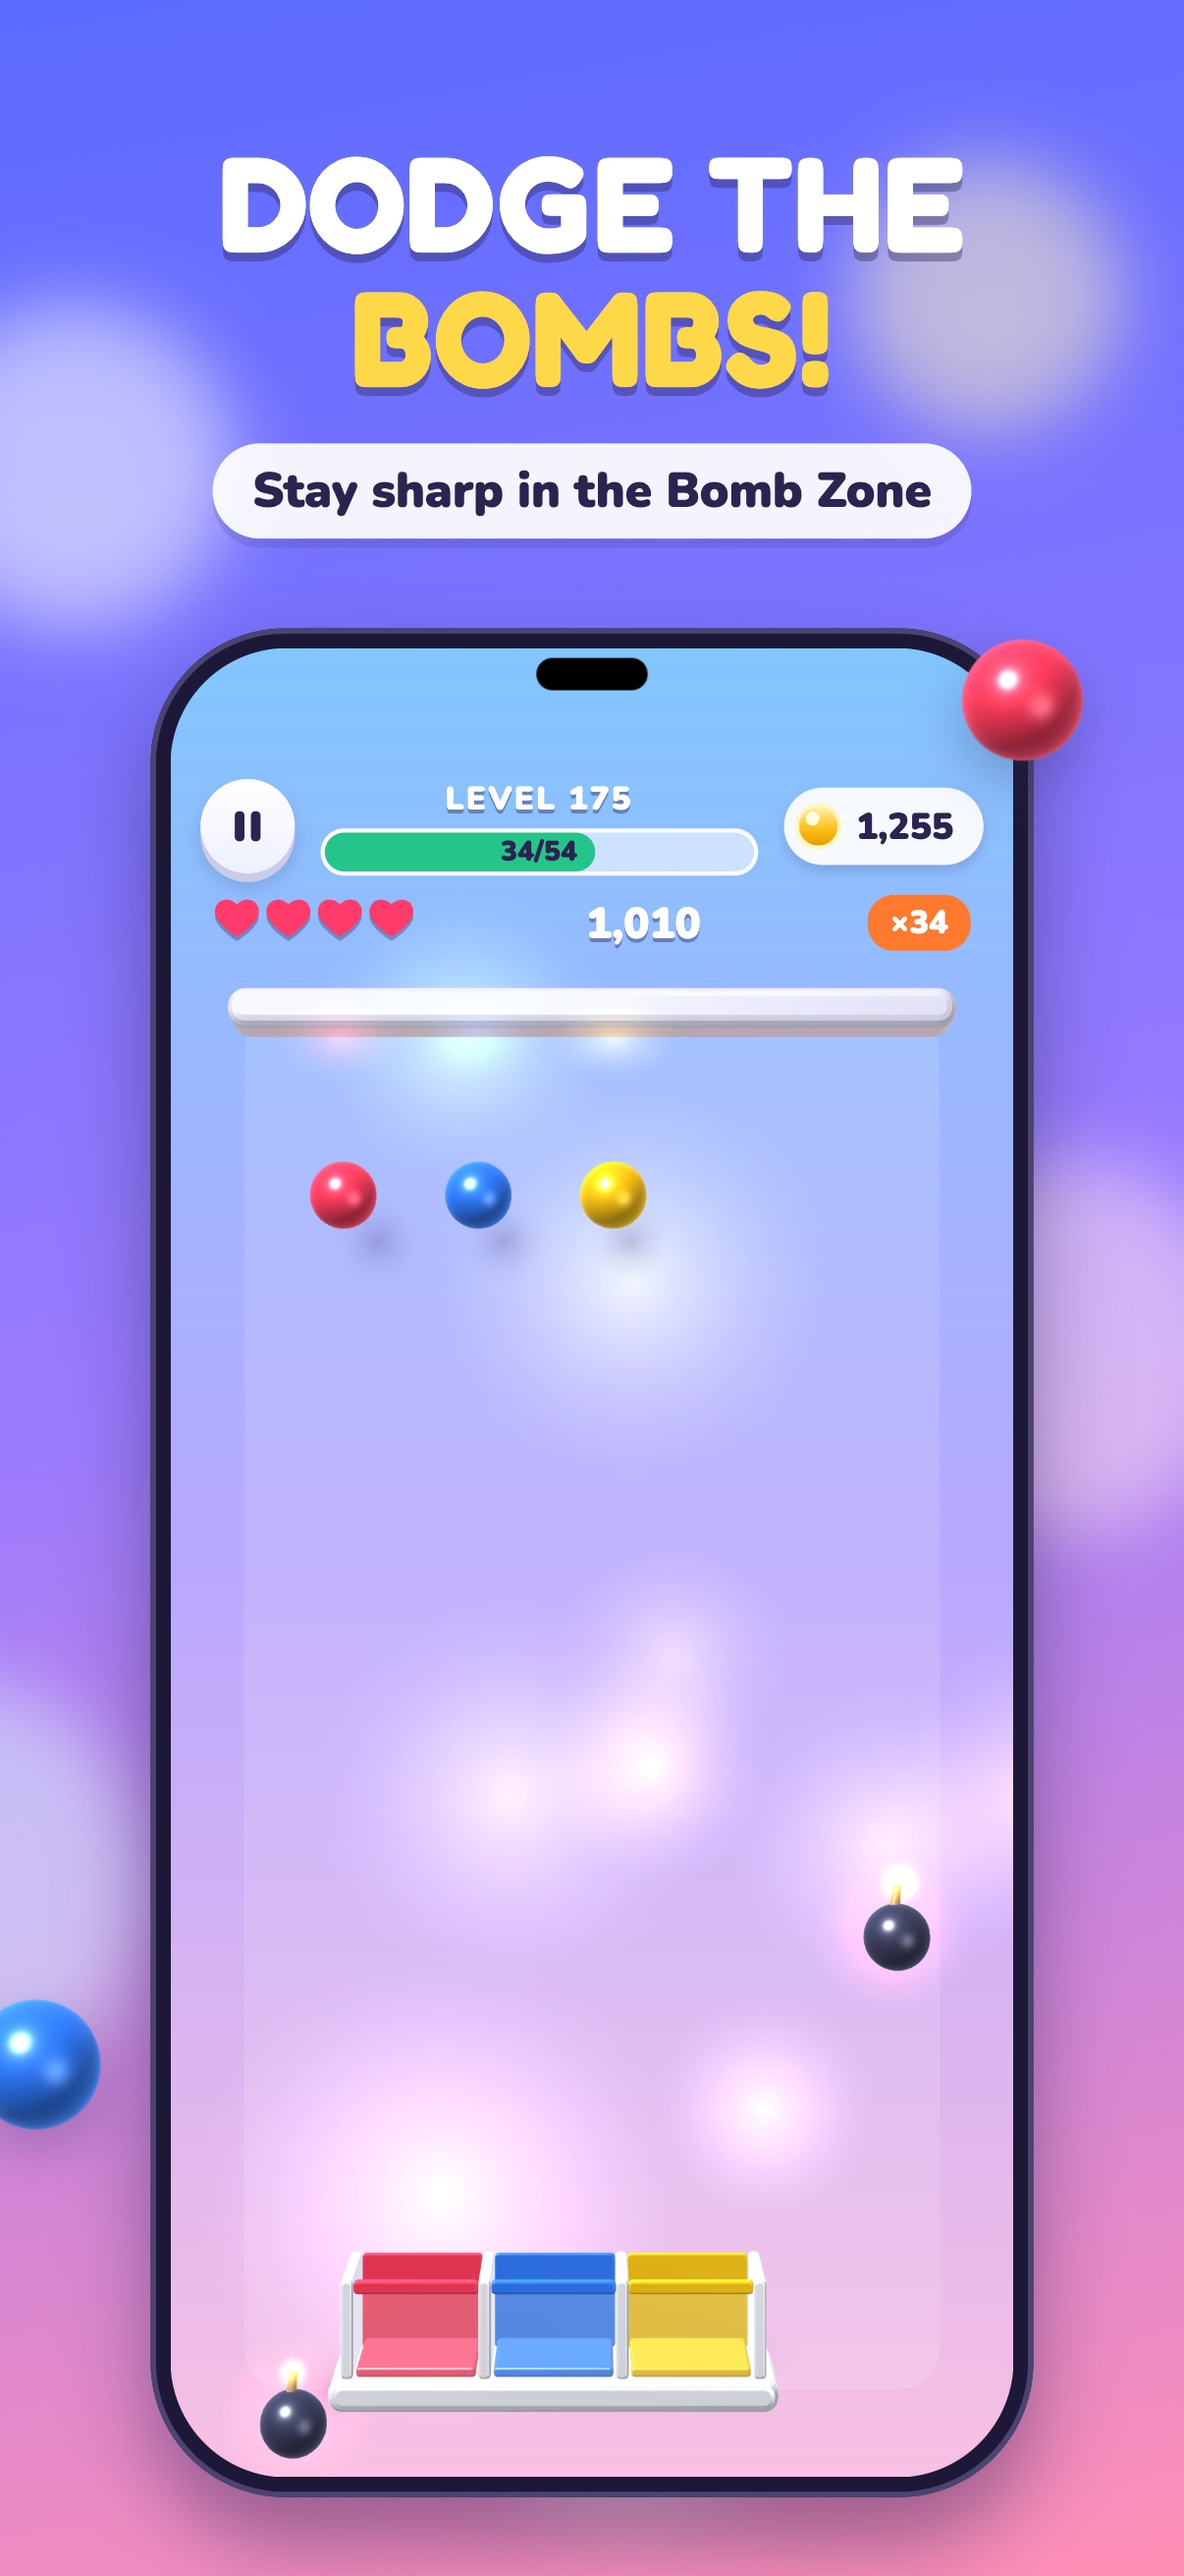
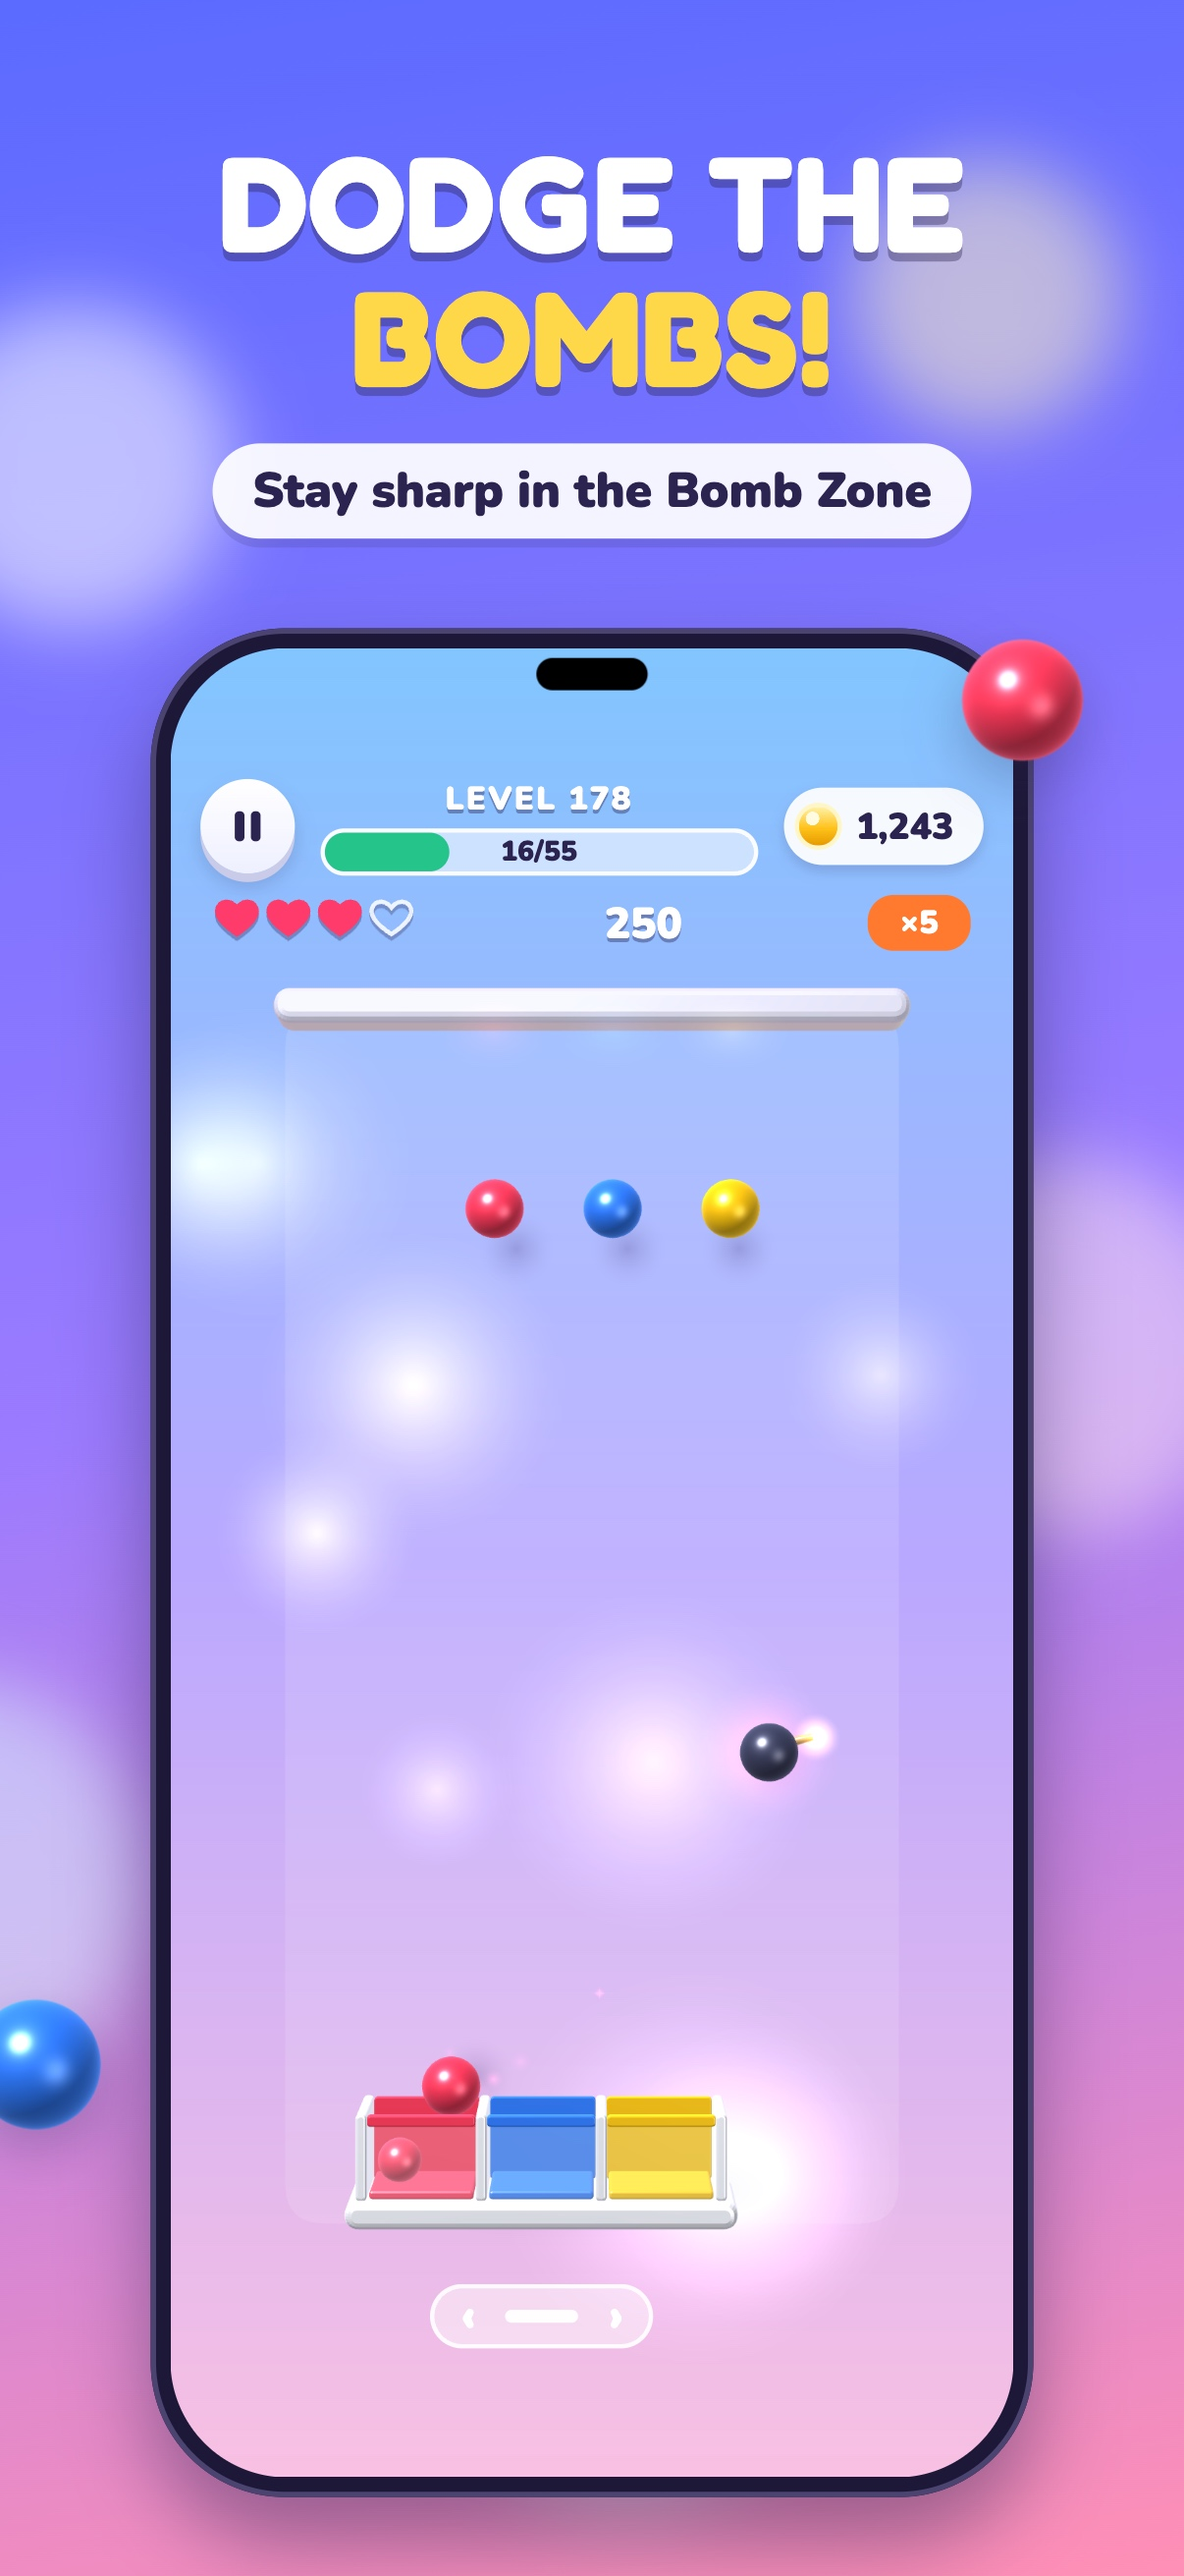
App Store screenshots: new tray/thumb zone, golden coin, bomb frame

diff --git a/tools/screenshots/shot.html b/tools/screenshots/shot.html
@@ -104,8 +104,8 @@ const icon = {
 const SHOTS = {
   1: { bg: ['#6fc0ff', '#a88bff', '#ff9fcf'], h: 'Catch the<br><span class="hl">Colors!</span>', sub: 'Relaxing 3D color-match fun', game: { levelId: 120, seconds: 18, minVisible: 4 }, popups: true },
   2: { bg: ['#ff9fc4', '#b28bff', '#7cc8ff'], h: 'One finger<br><span class="hl">to play</span>', sub: 'Slide the tray · match every drop', game: { levelId: 96, seconds: 9, minVisible: 3 }, touch: true },
-  3: { bg: ['#ffcf5a', '#ff8fb5', '#a88bff'], hl: '#fff3a0', h: 'Golden coins &amp;<br><span class="hl">Rainbow</span> balls', sub: 'Bonus coins &amp; big combos', game: { levelId: 111, seconds: 6, needKind: [2], minVisible: 2 } },
-  4: { bg: ['#5b6bff', '#9b7bff', '#ff8fb5'], hl: '#ffd84a', h: 'Dodge the<br><span class="hl">Bombs!</span>', sub: 'Stay sharp in the Bomb Zone', game: { levelId: 175, seconds: 12, needKind: [4], minVisible: 3 } },
+  3: { bg: ['#ffcf5a', '#ff8fb5', '#a88bff'], hl: '#fff3a0', h: 'Golden coins &amp;<br><span class="hl">Rainbow</span> balls', sub: 'Bonus coins &amp; big combos', game: { levelId: 120, seconds: 16.6, needKind: [2, 3], minVisible: 2 } },
+  4: { bg: ['#5b6bff', '#9b7bff', '#ff8fb5'], hl: '#ffd84a', h: 'Dodge the<br><span class="hl">Bombs!</span>', sub: 'Stay sharp in the Bomb Zone', game: { levelId: 178, seconds: 13.43, needKind: [4], minVisible: 4 } },
   5: { bg: ['#4fd6a8', '#6fc0ff', '#a88bff'], hl: '#ffd84a', h: '300 levels<br><span class="hl">10 worlds</span>', sub: 'Earn stars, coins &amp; rewards', game: { levelId: 42, seconds: 999 }, victory: true },
   6: { bg: ['#a88bff', '#ff8fb5', '#ffcf5a'], hl: '#fff3a0', h: 'Unlock<br><span class="hl">shiny skins</span>', sub: 'Candy · Pearl · Chrome · Crystal', collection: true },
 };
